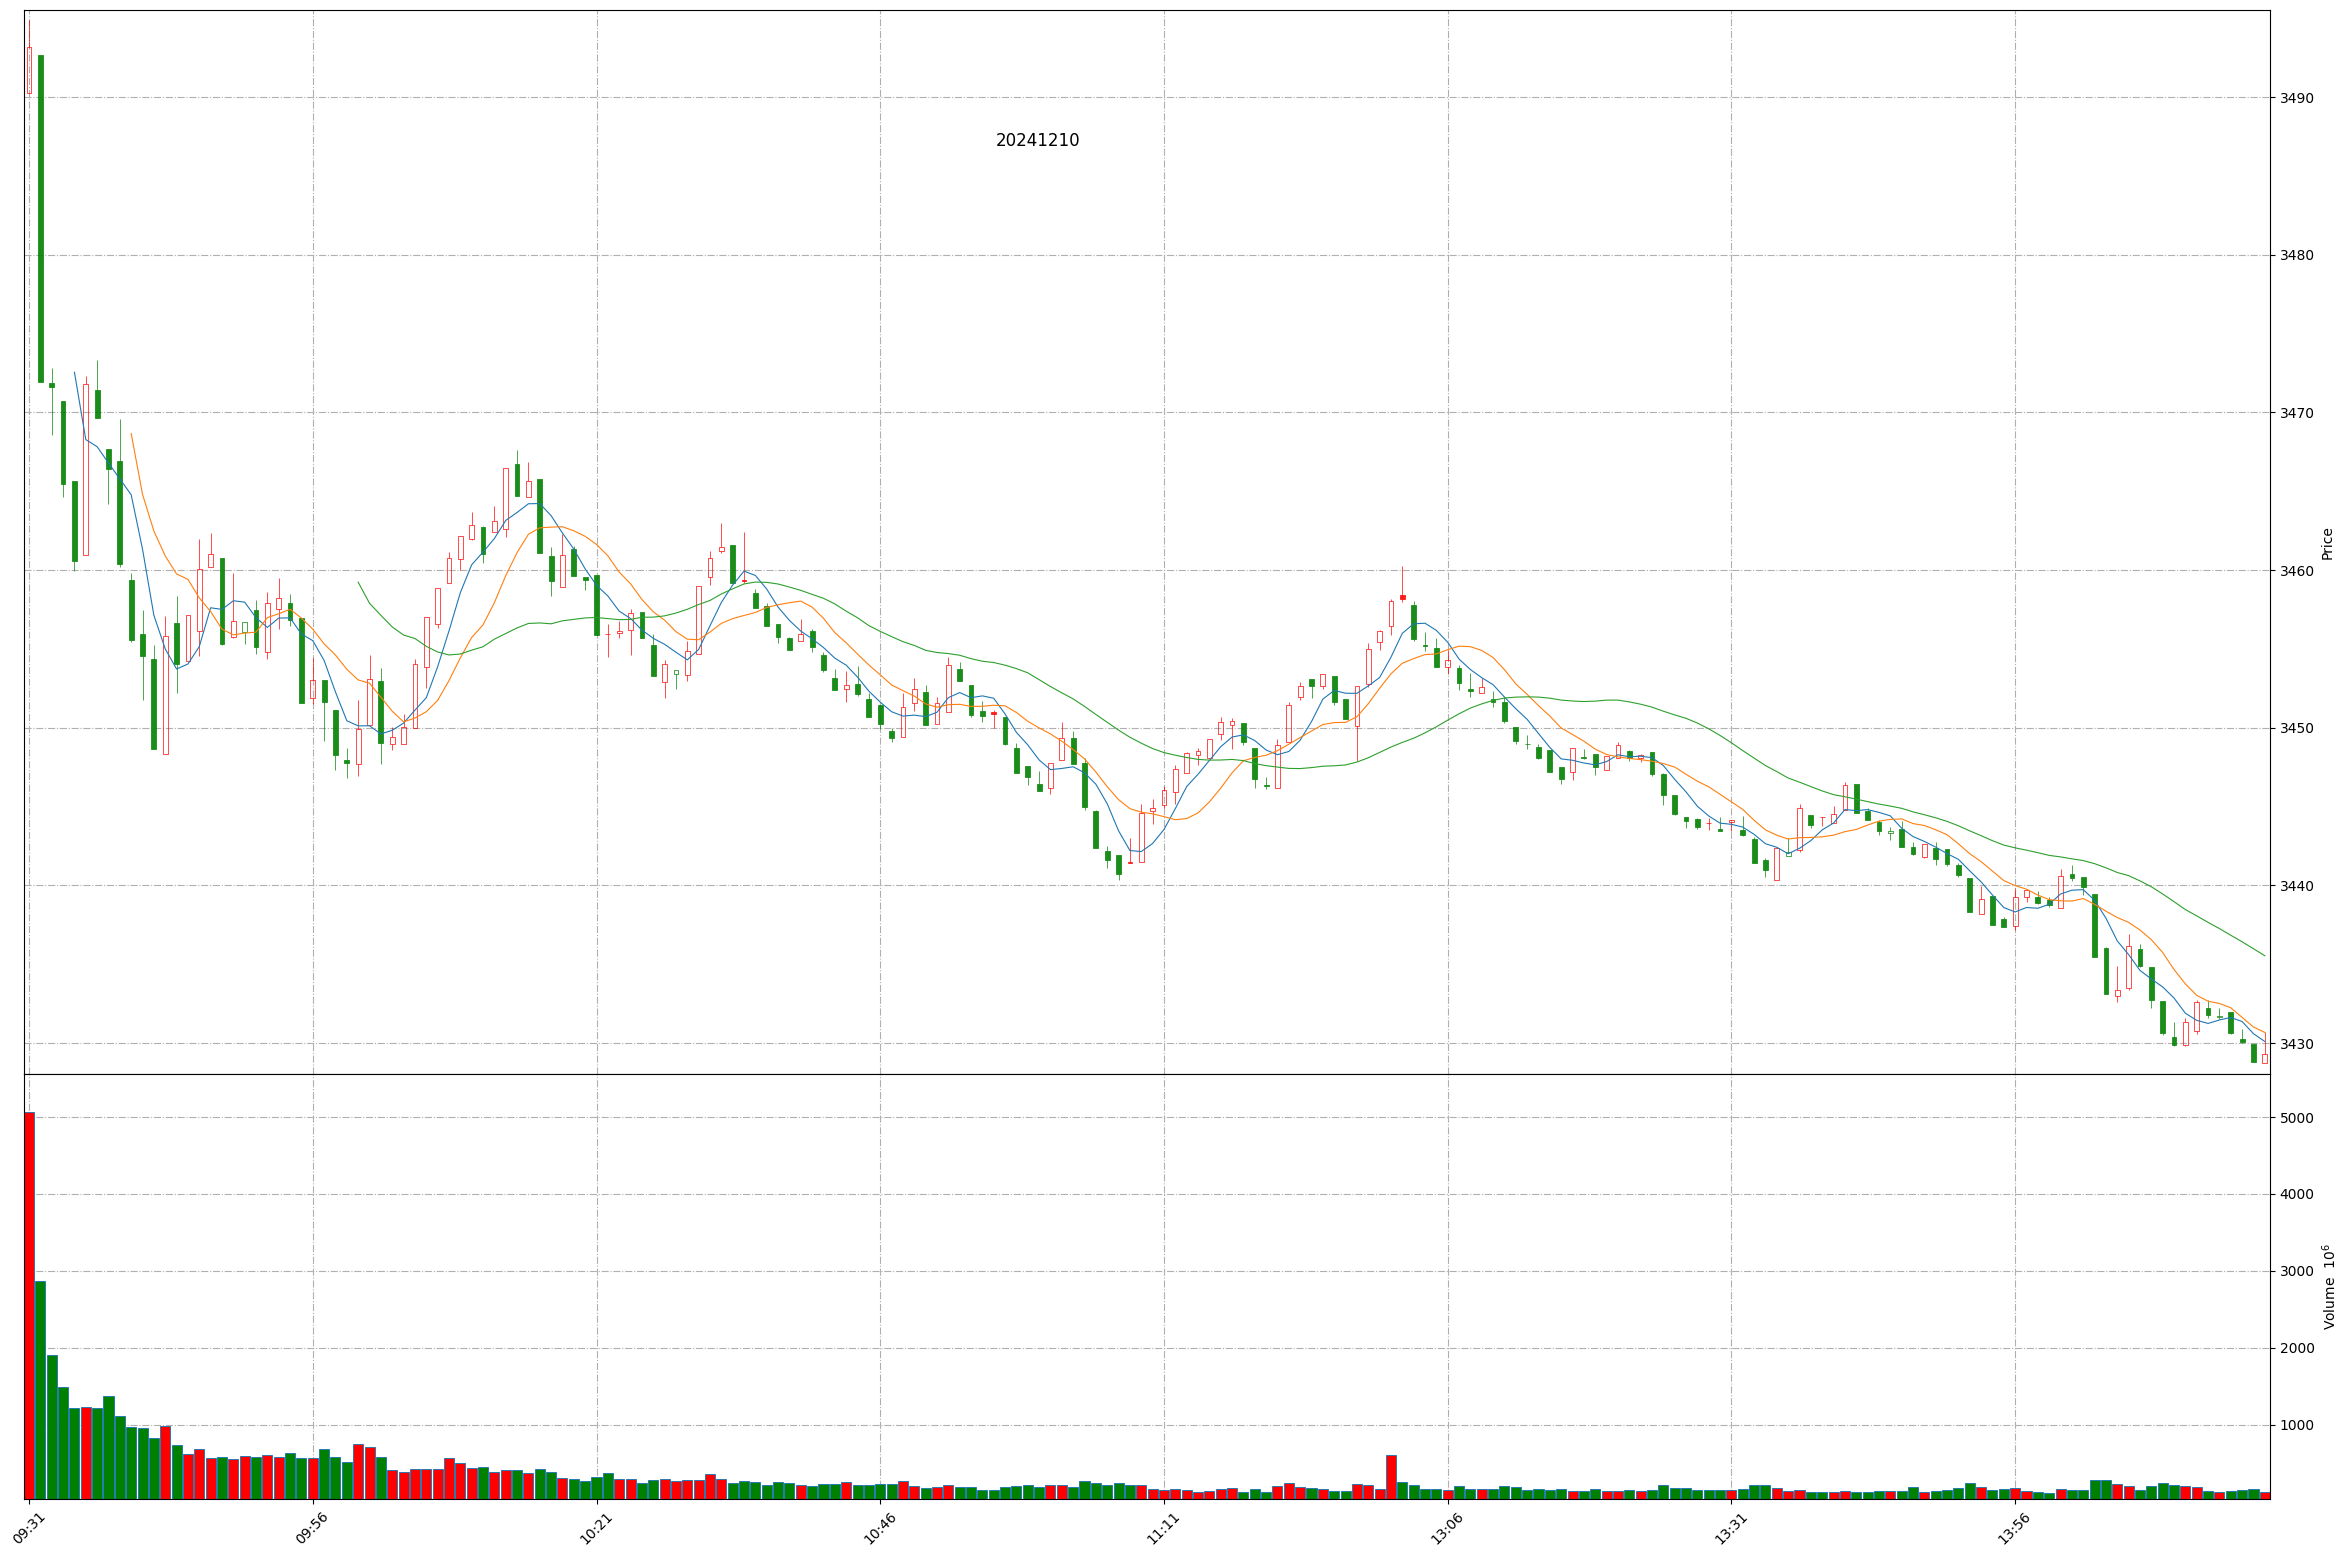
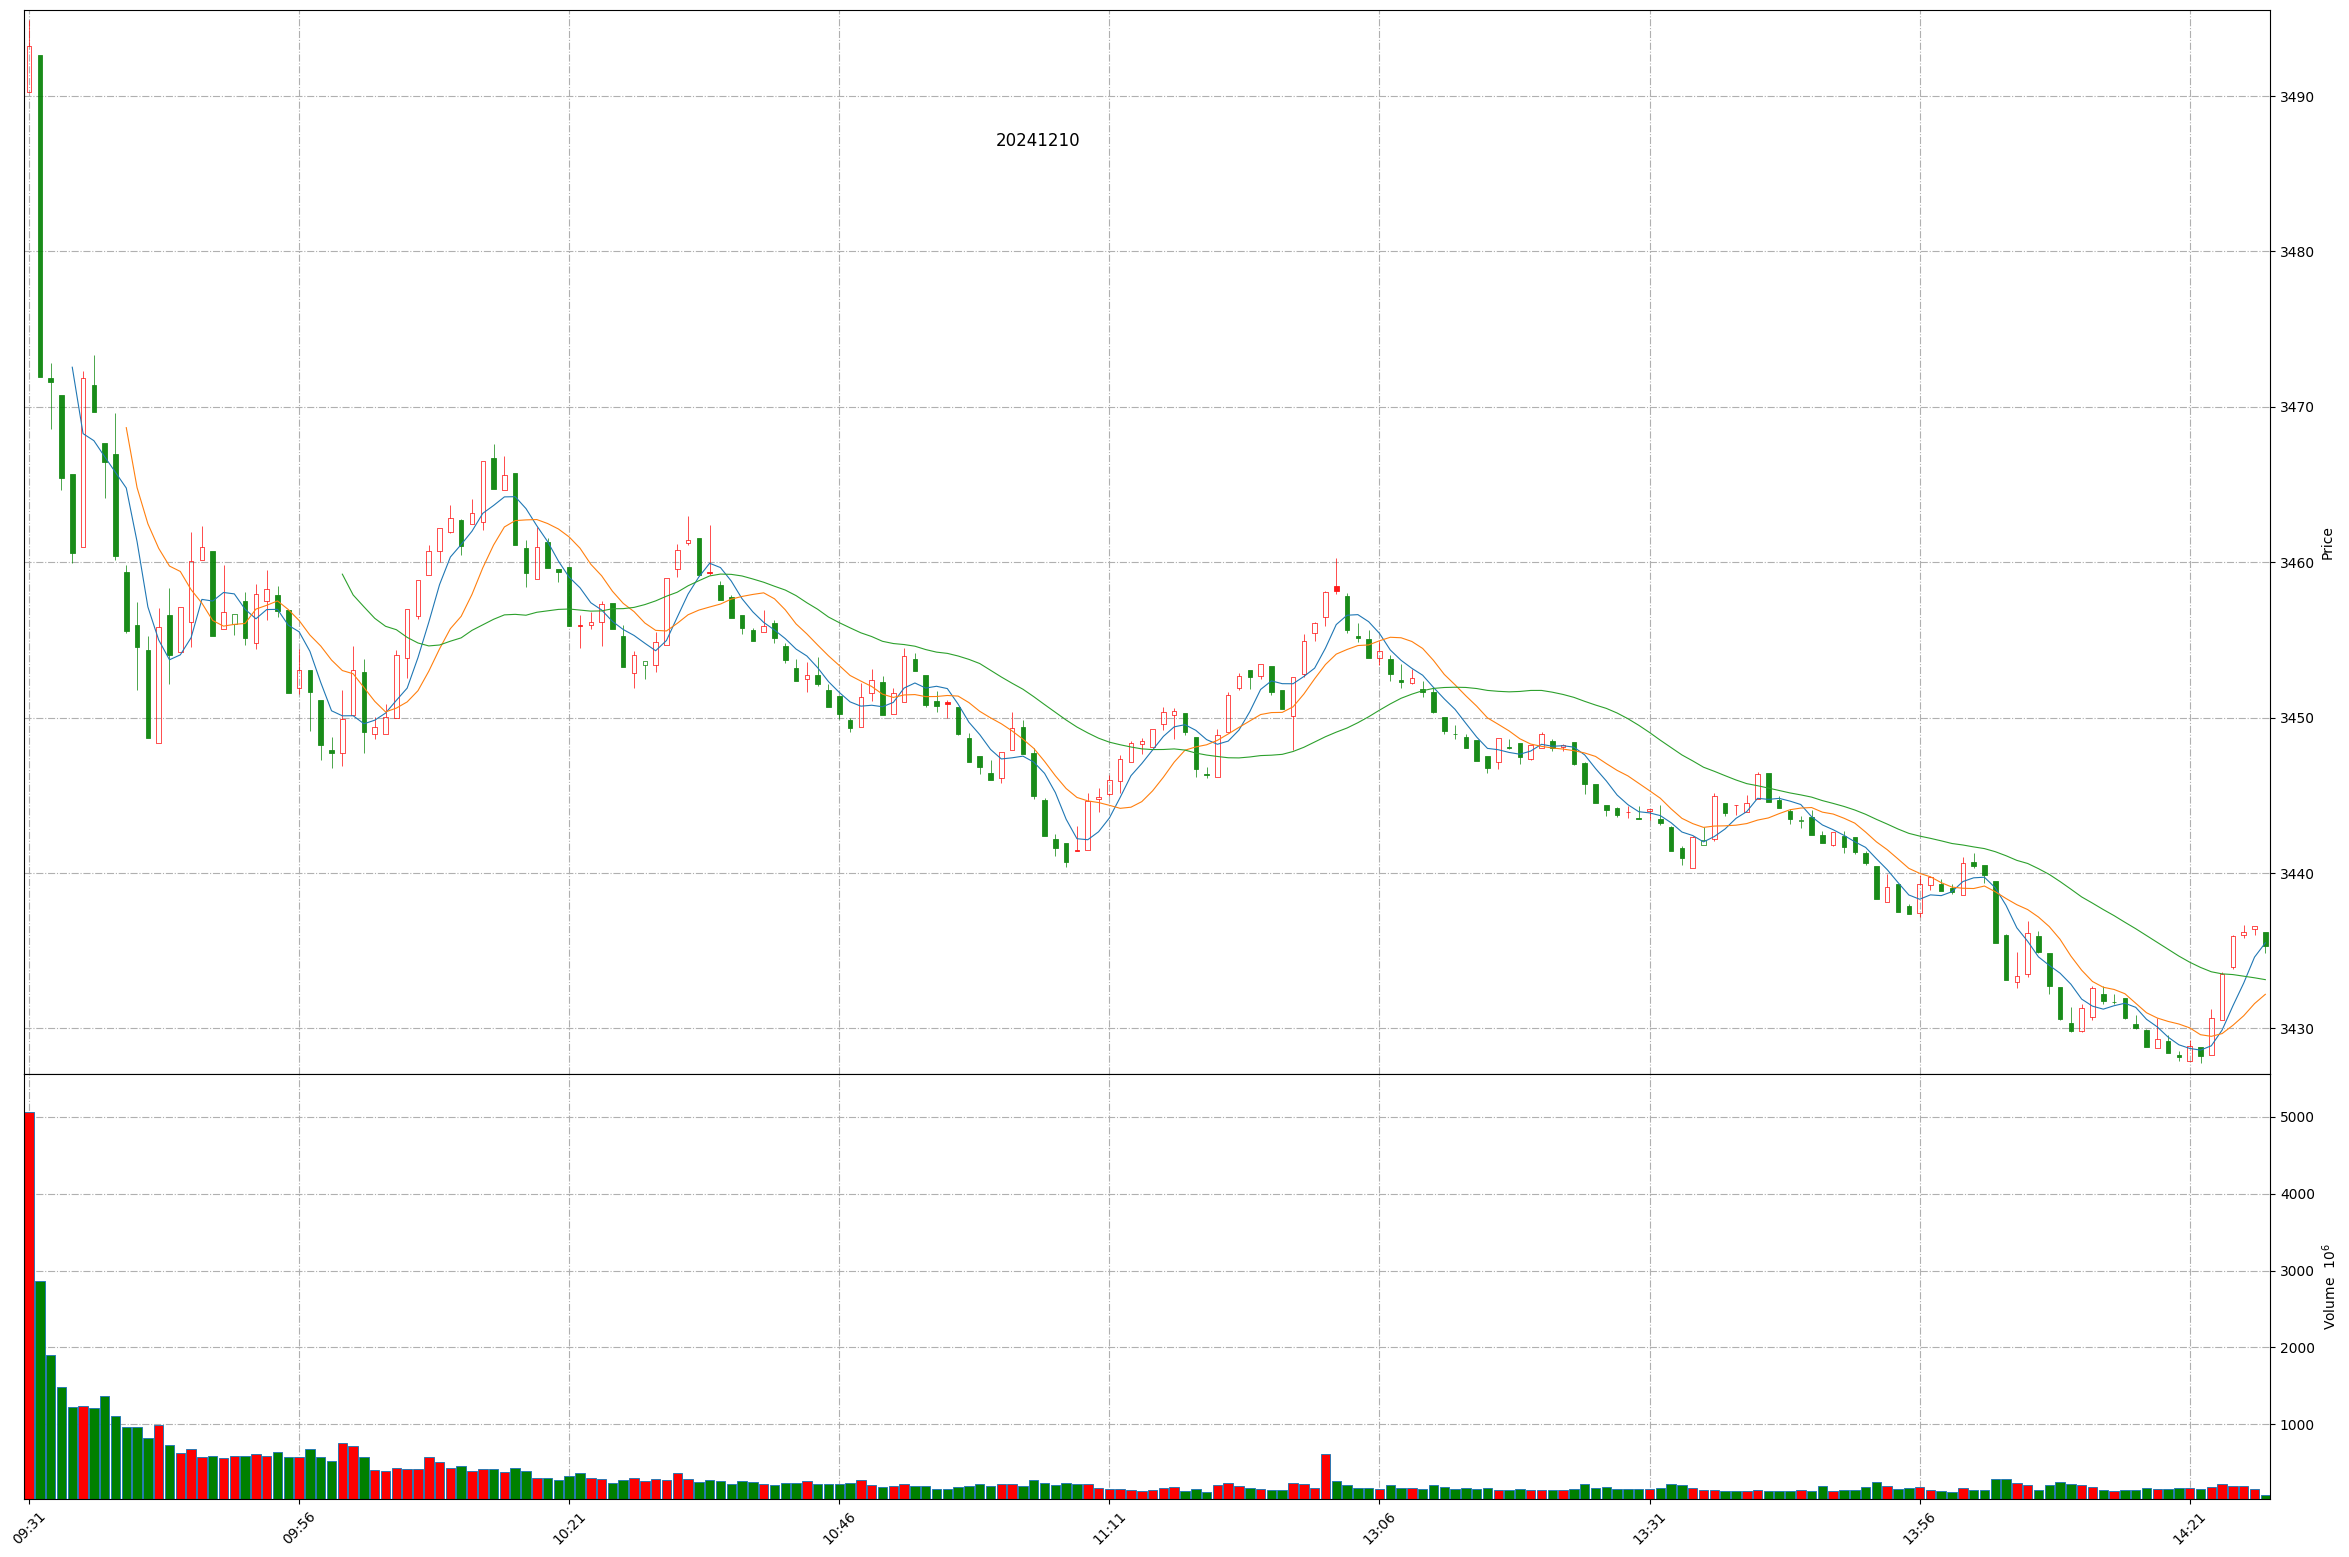
Github action update at 2024-12-10 14:27:41.

diff --git a/README.md b/README.md
@@ -1,11 +1,11 @@
 
 # Daily-A-share-market-quotes 每日 A 股指数（5min 更新）- 20241210
 
-### 上证指数 20241210 14:18
+### 上证指数 20241210 14:27
 ![](./fig/2024/12/20241210-sh000001.png)
 
-### 深证成指 20241210 14:18
+### 深证成指 20241210 14:27
 ![](./fig/2024/12/20241210-sz399001.png)
 
-### 北证50 20241210 14:18
+### 北证50 20241210 14:27
 ![](./fig/2024/12/20241210-bj899050.png)
